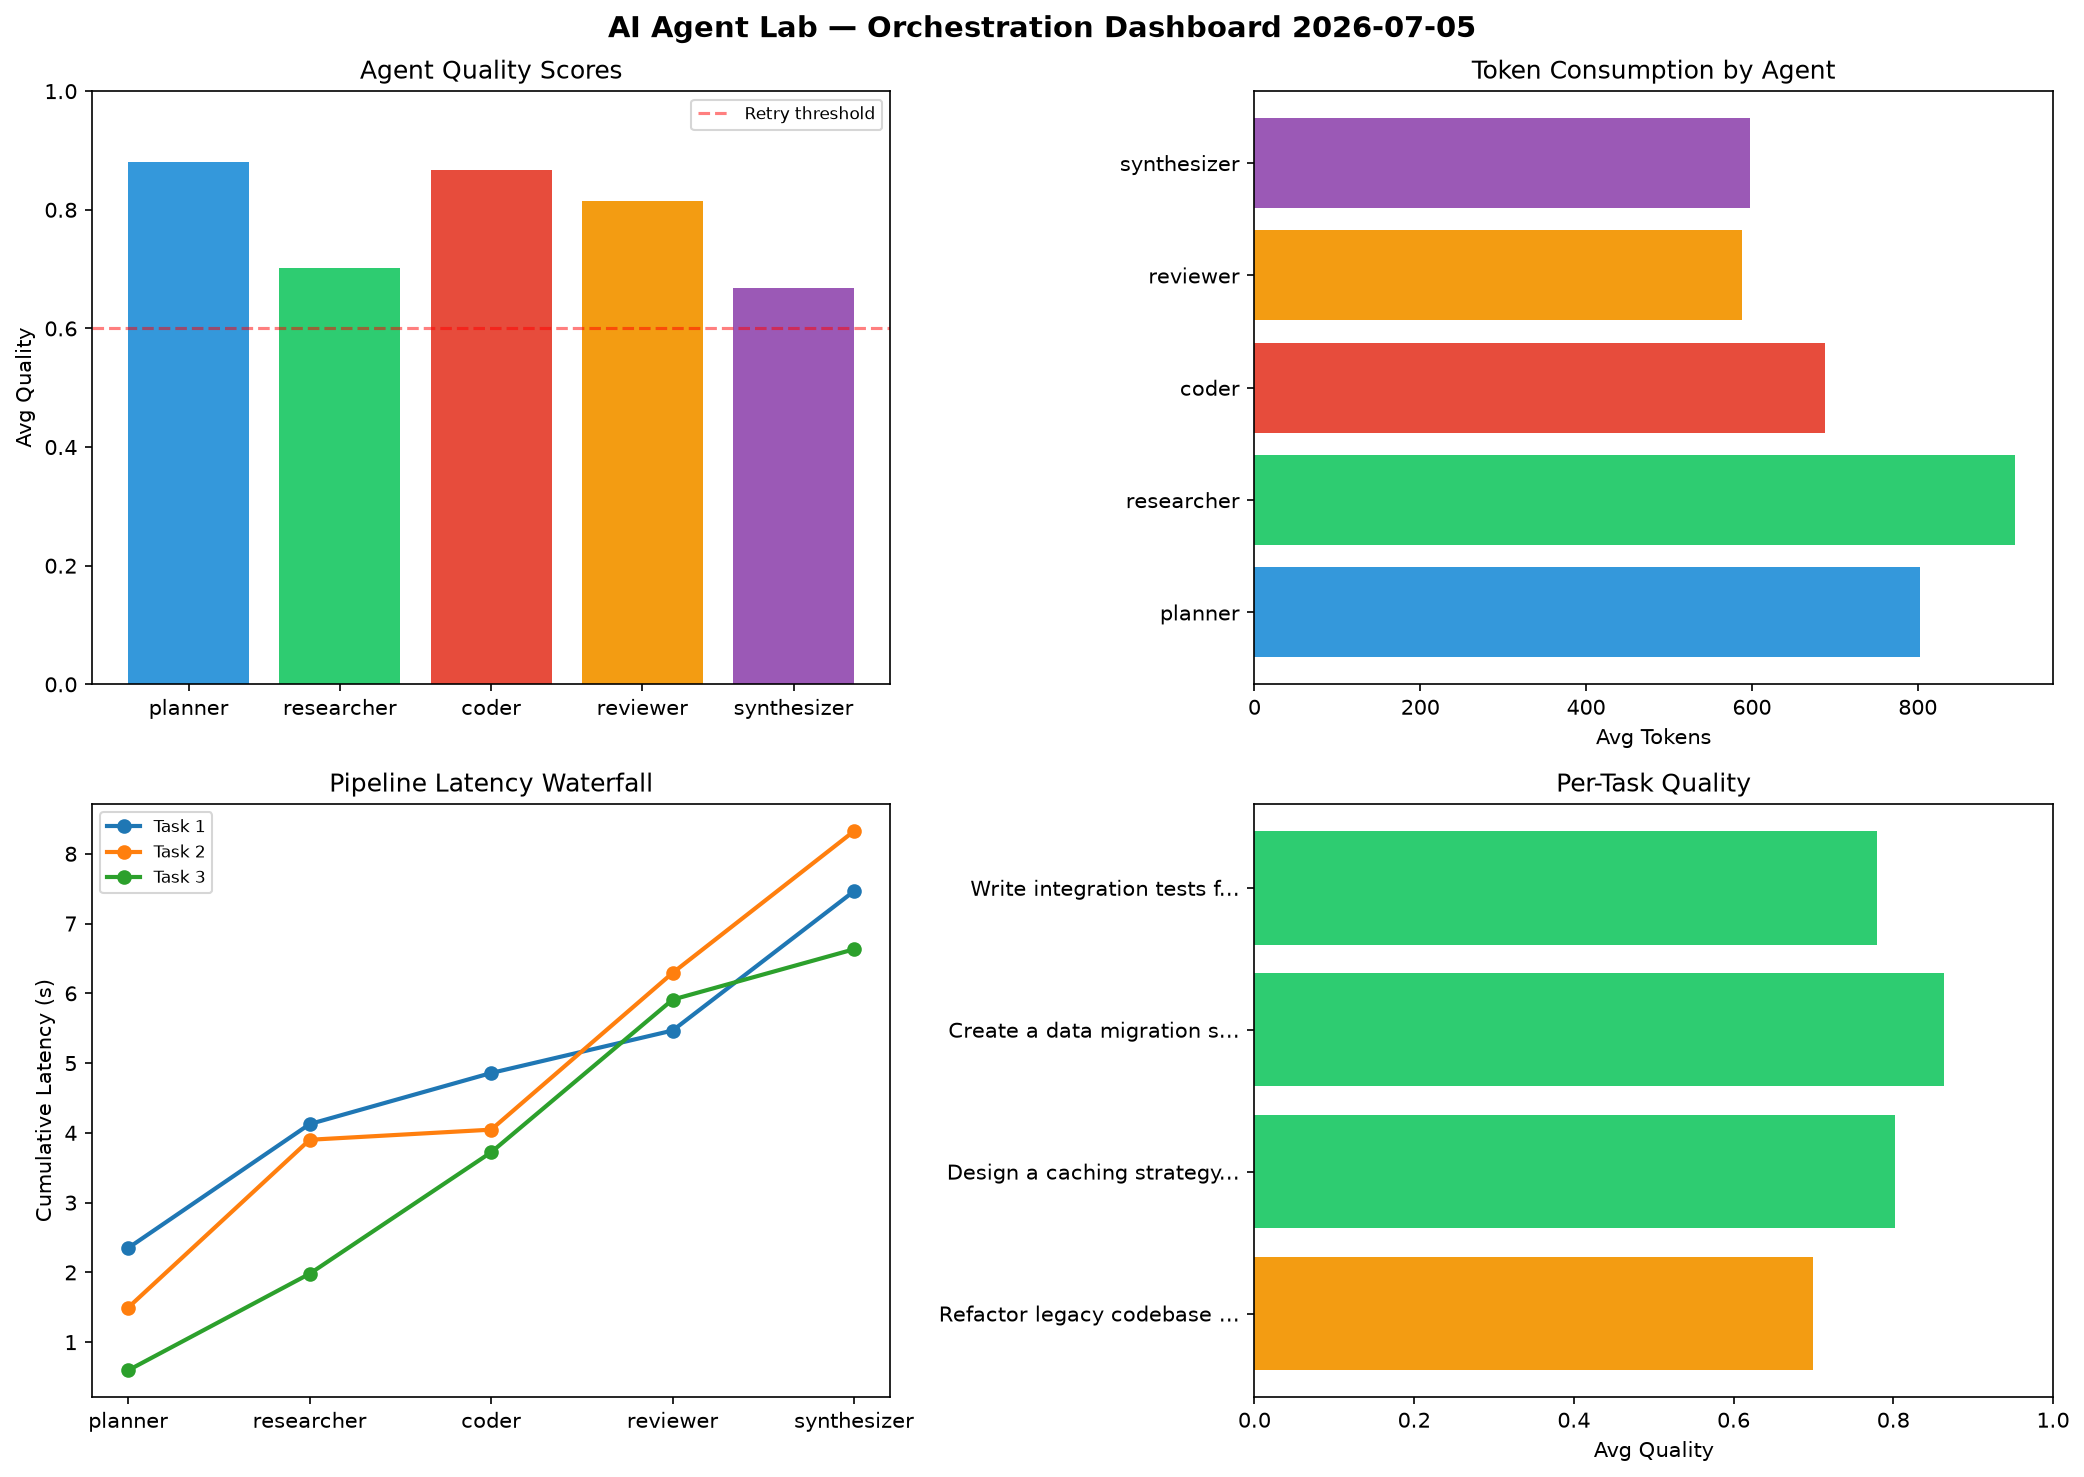
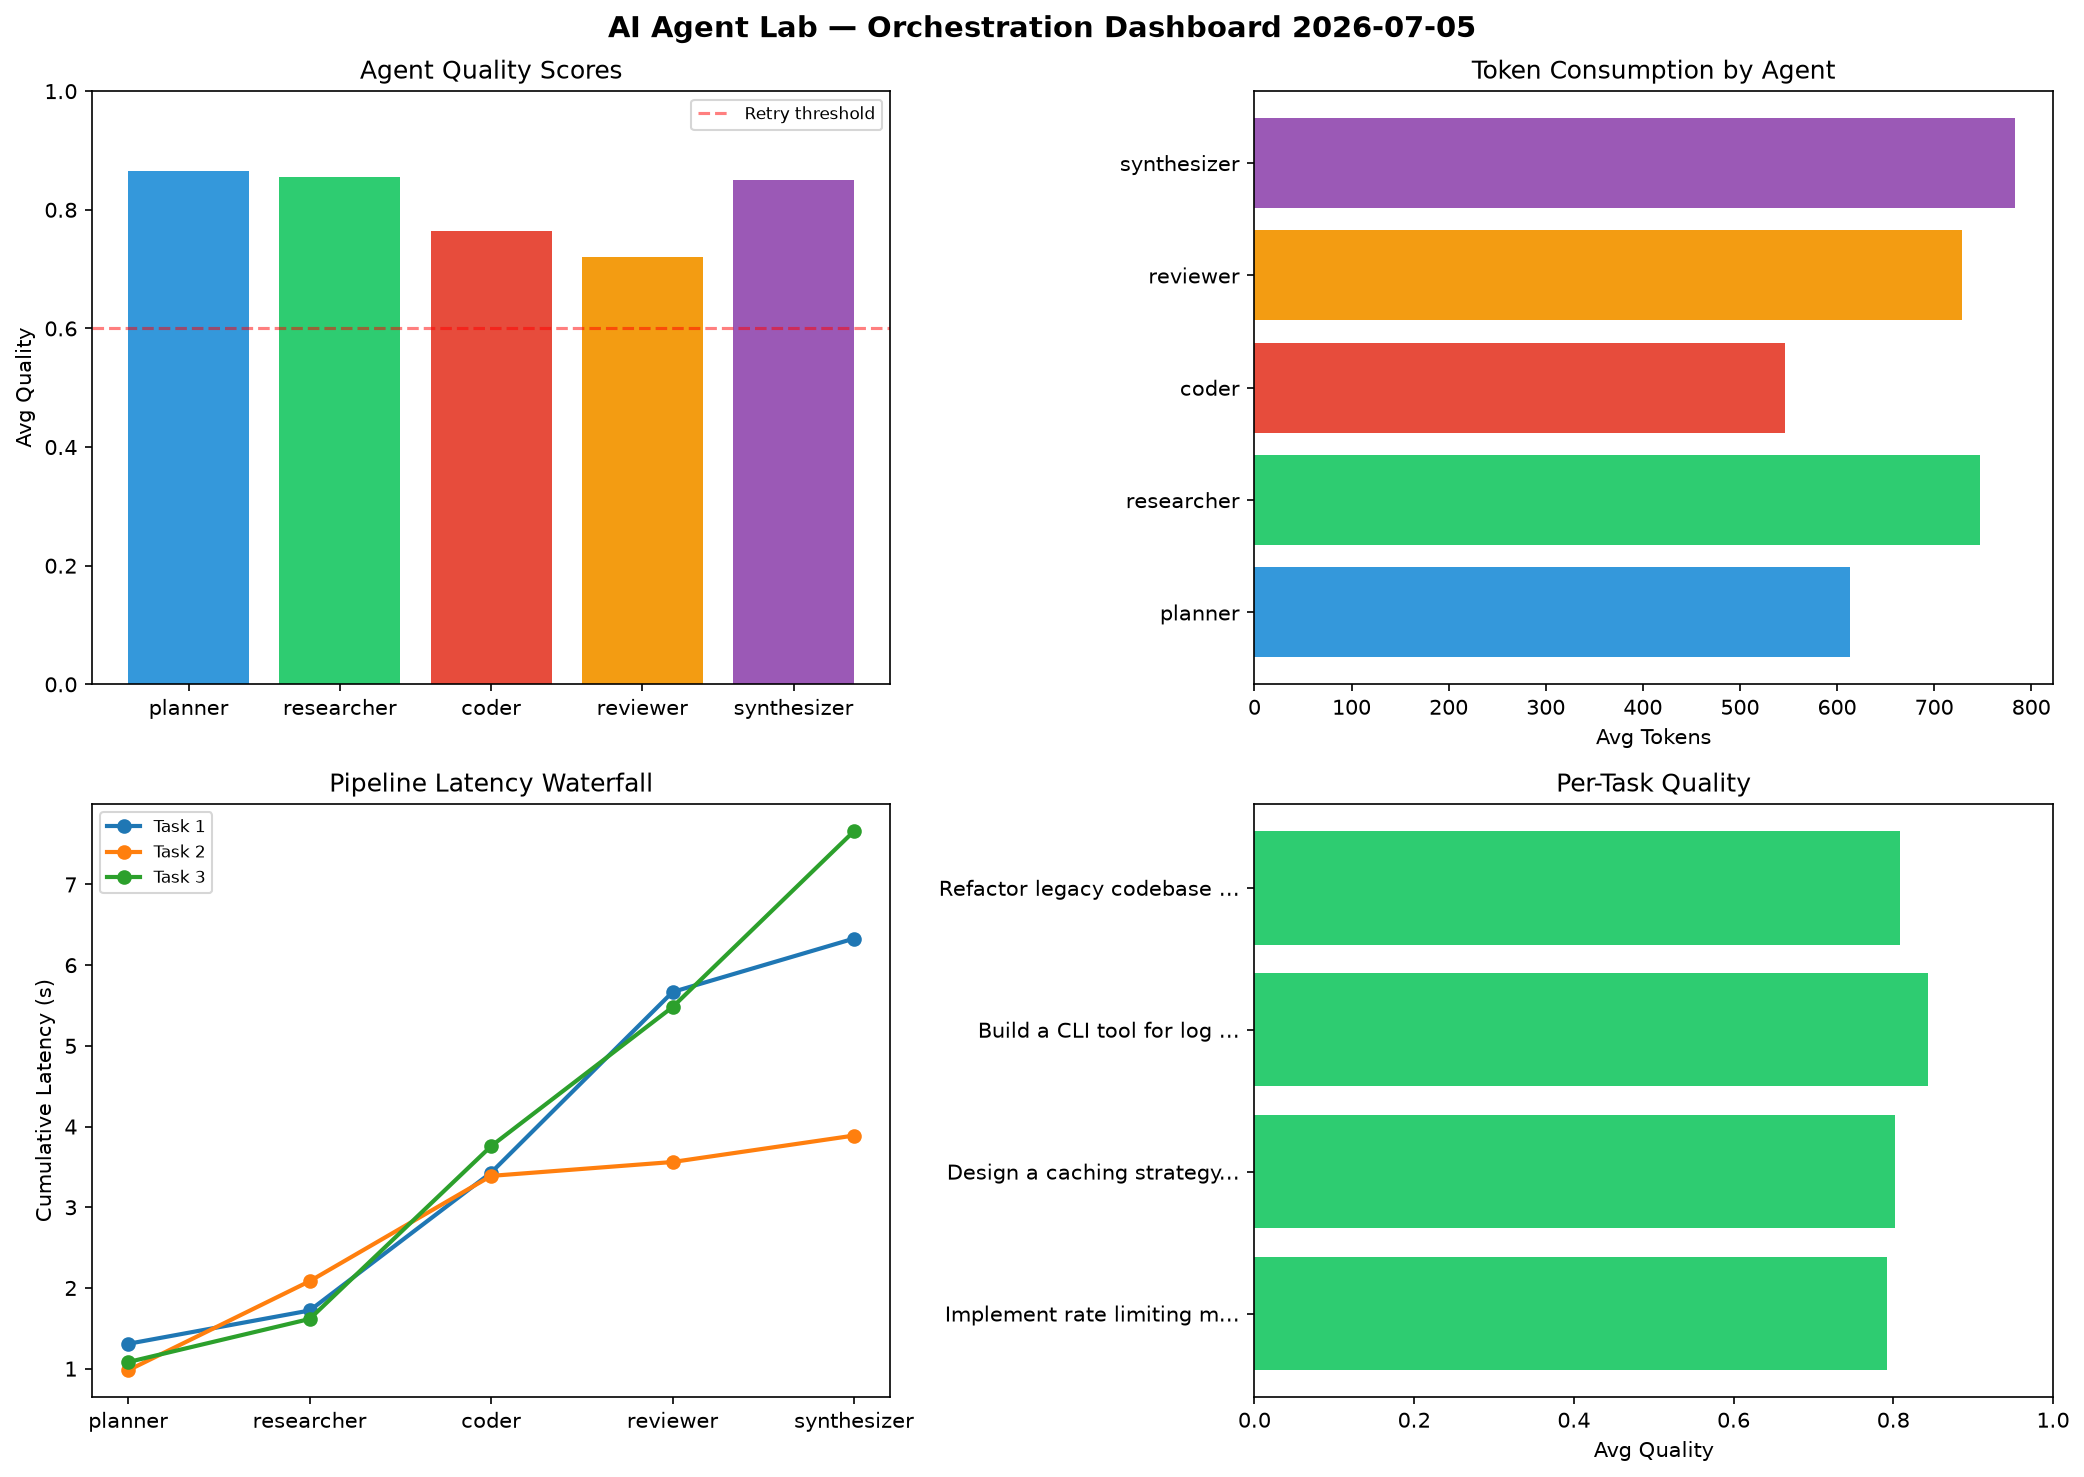
ai-agent-lab: orchestration run 2026-07-05T10:27

diff --git a/logs/2026-07-05.md b/logs/2026-07-05.md
@@ -1,6 +1,6 @@
 # AI Agent Lab — Orchestration Report 2026-07-05
 
-**Run ID:** `4baeea1d11` | **Tasks:** 4 | **Avg Quality:** 0.786
+**Run ID:** `e0b8fc028d` | **Tasks:** 4 | **Avg Quality:** 0.812
 
 ![Dashboard](2026-07-05_dashboard.png)
 
@@ -8,52 +8,52 @@
 
 | Metric | Value |
 |--------|-------|
-| avg_latency | 6.623 |
-| total_tokens | 14378 |
-| avg_quality | 0.786 |
+| avg_latency | 5.739 |
+| total_tokens | 13674 |
+| avg_quality | 0.812 |
 
 ## Delta vs Yesterday
 
 | Metric | Today | Yesterday | Change |
 |--------|-------|-----------|--------|
-| avg_latency | 6.623 | 7.07 | 📉 -6.3% |
-| total_tokens | 14378 | 12912 | 📈 11.4% |
-| avg_quality | 0.786 | 0.737 | 📈 6.6% |
+| avg_latency | 5.739 | 7.07 | 📉 -18.8% |
+| total_tokens | 13674 | 12912 | 📈 5.9% |
+| avg_quality | 0.812 | 0.737 | 📈 10.2% |
 
 ## Pipeline Results
 
-### Refactor legacy codebase to use dependency injection
+### Implement rate limiting middleware
 | Agent | Quality | Latency | Tokens | Status |
 |-------|---------|---------|--------|--------|
-| planner | 0.98 | 2.35s | 937 | success |
-| researcher | 0.624 | 1.776s | 846 | success |
-| coder | 0.772 | 0.732s | 589 | success |
-| reviewer | 0.551 | 0.609s | 746 | needs_retry |
-| synthesizer | 0.575 | 1.998s | 860 | needs_retry |
+| planner | 0.727 | 1.308s | 413 | success |
+| researcher | 0.826 | 0.413s | 704 | success |
+| coder | 0.877 | 1.709s | 612 | success |
+| reviewer | 0.644 | 2.238s | 729 | success |
+| synthesizer | 0.884 | 0.662s | 502 | success |
 
 ### Design a caching strategy for high-traffic endpoints
 | Agent | Quality | Latency | Tokens | Status |
 |-------|---------|---------|--------|--------|
-| planner | 0.857 | 1.496s | 363 | success |
-| researcher | 0.669 | 2.405s | 1276 | success |
-| coder | 0.845 | 0.145s | 845 | success |
-| reviewer | 0.97 | 2.247s | 412 | success |
-| synthesizer | 0.67 | 2.033s | 353 | success |
+| planner | 0.93 | 0.98s | 499 | success |
+| researcher | 0.817 | 1.104s | 448 | success |
+| coder | 0.623 | 1.305s | 403 | success |
+| reviewer | 0.653 | 0.172s | 1153 | success |
+| synthesizer | 0.986 | 0.328s | 966 | success |
 
-### Create a data migration script for schema v2
+### Build a CLI tool for log analysis
 | Agent | Quality | Latency | Tokens | Status |
 |-------|---------|---------|--------|--------|
-| planner | 0.79 | 0.597s | 688 | success |
-| researcher | 0.863 | 1.384s | 906 | success |
-| coder | 0.985 | 1.741s | 457 | success |
-| reviewer | 0.829 | 2.188s | 599 | success |
-| synthesizer | 0.853 | 0.722s | 605 | success |
+| planner | 0.848 | 1.082s | 645 | success |
+| researcher | 0.953 | 0.534s | 789 | success |
+| coder | 0.761 | 2.142s | 766 | success |
+| reviewer | 0.996 | 1.724s | 710 | success |
+| synthesizer | 0.656 | 2.18s | 783 | success |
 
-### Write integration tests for payment processing module
+### Refactor legacy codebase to use dependency injection
 | Agent | Quality | Latency | Tokens | Status |
 |-------|---------|---------|--------|--------|
-| planner | 0.894 | 1.182s | 1223 | success |
-| researcher | 0.653 | 1.236s | 641 | success |
-| coder | 0.864 | 0.296s | 863 | success |
-| reviewer | 0.908 | 0.886s | 597 | success |
-| synthesizer | 0.574 | 0.468s | 572 | needs_retry |
+| planner | 0.955 | 0.155s | 898 | success |
+| researcher | 0.828 | 0.796s | 1047 | success |
+| coder | 0.798 | 1.682s | 403 | success |
+| reviewer | 0.586 | 0.197s | 322 | needs_retry |
+| synthesizer | 0.877 | 2.246s | 882 | success |
